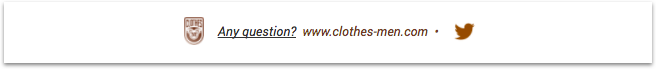
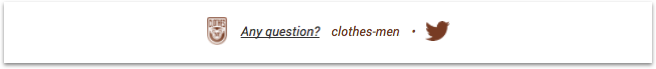
update: changing store domain name

Changed region(s): [[0.2744, 0.2319, 0.7317, 0.6667]]

diff --git a/receipt/README.md b/receipt/README.md
@@ -446,8 +446,8 @@ The trick here is that you want to prevent the columns from stacking on mobile. 
     </mj-column>
     <mj-column width="38%" vertical-align="middle">
       <mj-text align="center" font-style="italic" padding="0">
-        <a href="#" target="_blank">Any question?</a>&nbsp;
-        <a href="#" target="_blank" style="color: #763b26; text-decoration: none">www.clothes-men.com</a>
+        <a href="clothes-men.mailjet.com/questions" target="_blank">Any question?</a>&nbsp;
+        <a href="clothes-men.mailjet.com" target="_blank" style="color: #763b26; text-decoration: none">clothes-men</a>
         <span style="color: #763b26">&nbsp;•</span>
       </mj-text>
     </mj-column>
